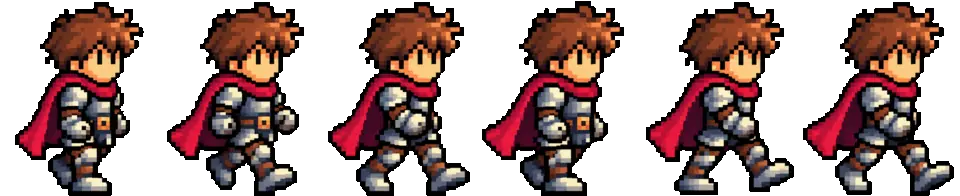
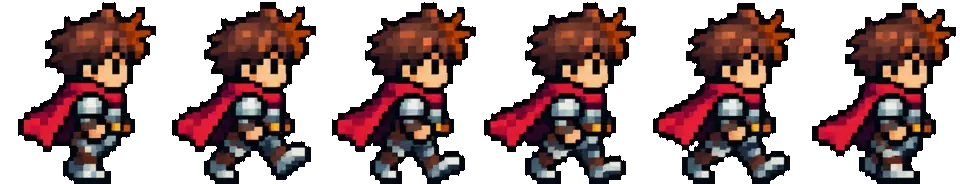
Diario: nuova mappa del mondo 1 vista dall'alto, nuovo cavaliere e camminata lungo il sentiero disegnato
Claude-Session: https://claude.ai/code/session_01Ly8M64WoiNxbZKkFq6qyb5

diff --git a/js/diario.js b/js/diario.js
@@ -112,31 +112,65 @@
         const pageWorld = Number(page.dataset.world);
         const reduceMotion = window.matchMedia("(prefers-reduced-motion: reduce)").matches;
 
-        // Dove si ferma per ogni settimana: a sinistra del falò, in % della mappa
+        // Il sentiero disegnato sulla mappa, come una linea di punti (in %)
+        const path = (page.dataset.path || "").trim().split(/\s+/).map(function (pair) {
+            const xy = pair.split(",").map(Number);
+            return { x: xy[0], y: xy[1] };
+        });
+        // Lunghezza progressiva lungo il sentiero (la x conta il doppio: la mappa è 2:1)
+        const along = [0];
+        for (let i = 1; i < path.length; i++) {
+            along.push(along[i - 1] + Math.hypot(path[i].x - path[i - 1].x, (path[i].y - path[i - 1].y) / 2));
+        }
+
+        // Punto del sentiero a una certa distanza dall'inizio
+        function pointAt(s) {
+            if (s <= 0) return path[0];
+            for (let i = 1; i < path.length; i++) {
+                if (s <= along[i]) {
+                    const t = (s - along[i - 1]) / (along[i] - along[i - 1] || 1);
+                    return { x: path[i - 1].x + (path[i].x - path[i - 1].x) * t, y: path[i - 1].y + (path[i].y - path[i - 1].y) * t };
+                }
+            }
+            return path[path.length - 1];
+        }
+
+        // Distanza lungo il sentiero del punto più vicino a una certa x
+        function distanceAtX(x) {
+            for (let i = 1; i < path.length; i++) {
+                if (x <= path[i].x) {
+                    const t = (x - path[i - 1].x) / (path[i].x - path[i - 1].x || 1);
+                    return along[i - 1] + (along[i] - along[i - 1]) * Math.max(0, Math.min(1, t));
+                }
+            }
+            return along[along.length - 1];
+        }
+
+        // Dove si ferma per ogni settimana: sul sentiero, appena prima del falò
         const spots = {};
         page.querySelectorAll(".world-stop").forEach(function (stop) {
-            spots[Number(stop.dataset.worldWeek)] = {
-                x: Number(stop.dataset.standX),
-                y: Number(stop.dataset.standY)
-            };
+            spots[Number(stop.dataset.worldWeek)] = distanceAtX(Number(stop.dataset.standX));
         });
         const weeksHere = Object.keys(spots).map(Number).sort(function (a, b) { return a - b; });
-        const START = { x: -5, y: spots[weeksHere[0]].y };
+        const START = -3;      // appena fuori dal bordo sinistro
 
-        let pos = { x: START.x, y: START.y };
+        let s = START;
         let at = 0;            // settimana a cui è fermo (0 = nessuna)
         let walk = null;       // camminata in corso
         let timer = null;
 
         function draw() {
-            el.style.left = pos.x + "%";
-            el.style.top = pos.y + "%";
+            const p = s < 0 ? { x: path[0].x + s, y: path[0].y } : pointAt(s);
+            el.style.left = p.x + "%";
+            el.style.top = p.y + "%";
+            current = p;
         }
+        let current = path[0];
 
         // Riposa al falò della settimana in corso; se il mondo è finito, all'ultimo
         function restWeek() {
-            const current = weeksHere.find(function (w) { return stage.state(w) === "current"; });
-            if (current) return current;
+            const now = weeksHere.find(function (w) { return stage.state(w) === "current"; });
+            if (now) return now;
             const done = weeksHere.filter(function (w) { return stage.state(w) === "done"; });
             return done.length ? done[done.length - 1] : weeksHere[0];
         }
@@ -144,8 +178,7 @@
         // Tiene il cavaliere al centro quando la mappa è più larga dello schermo
         function follow() {
             if (page.scrollWidth <= page.clientWidth) return;
-            const stageEl = el.parentElement;
-            const x = stageEl.clientWidth * pos.x / 100;
+            const x = el.parentElement.clientWidth * current.x / 100;
             page.scrollLeft = x - page.clientWidth / 2;
         }
 
@@ -153,27 +186,27 @@
             if (!walk) return;
             const done = walk;
             walk = null;
-            pos = { x: done.to.x, y: done.to.y };
+            s = done.to;
             draw();
             follow();
             el.classList.remove("is-walking", "is-left");
             done.resolve();
         }
 
-        // speed: % della larghezza della mappa al secondo
+        // Cammina lungo il sentiero fino alla distanza "to"; speed in % al secondo
         function moveTo(to, speed, maxMs) {
             finish();
-            const from = { x: pos.x, y: pos.y };
-            const distance = Math.abs(to.x - from.x);
-            if (reduceMotion || distance < 0.5) {
-                pos = { x: to.x, y: to.y };
+            const from = s;
+            const distance = Math.abs(to - from);
+            if (reduceMotion || distance < 0.3) {
+                s = to;
                 draw();
                 follow();
                 return Promise.resolve();
             }
             const duration = Math.min(maxMs, Math.max(250, distance / speed * 1000));
             el.classList.add("is-walking");
-            el.classList.toggle("is-left", to.x < from.x);
+            el.classList.toggle("is-left", to < from);
 
             return new Promise(function (resolve) {
                 const start = performance.now();
@@ -181,7 +214,7 @@
                 function step(now) {
                     if (!walk || walk.to !== to) return;
                     const t = Math.min(1, (now - start) / duration);
-                    pos = { x: from.x + (to.x - from.x) * t, y: from.y + (to.y - from.y) * t };
+                    s = from + (to - from) * t;
                     draw();
                     follow();
                     if (t < 1) requestAnimationFrame(step);
@@ -196,7 +229,7 @@
             clearTimeout(timer);
             finish();
             const target = restWeek();
-            pos = { x: START.x, y: START.y };
+            s = START;
             at = 0;
             draw();
             page.scrollLeft = 0;
@@ -222,7 +255,7 @@
             const target = spots[week] ? week : restWeek();
             clearTimeout(timer);
             finish();
-            pos = { x: spots[target].x, y: spots[target].y };
+            s = spots[target];
             at = target;
             draw();
         }

diff --git a/index.html b/index.html
@@ -169,23 +169,23 @@
             <h2 class="visually-hidden">Diario</h2>
 
             <!-- I quattro mondi, uno per mese: si vede uno alla volta, a tutto schermo -->
-            <div class="world-page" data-world="1" data-name="La foresta" data-month="Settembre">
+            <div class="world-page" data-world="1" data-name="La foresta" data-month="Settembre" data-path="0.00,50.17 1.01,50.38 2.03,50.73 3.04,51.03 4.06,50.91 5.07,50.43 6.09,49.75 7.10,49.35 8.12,49.37 9.13,49.48 10.15,49.49 11.16,49.75 12.18,50.21 13.19,50.61 14.21,50.88 15.22,51.15 16.23,51.74 17.25,52.58 18.26,53.54 19.28,55.39 20.29,57.64 21.31,59.29 22.32,60.02 23.34,60.36 24.35,60.43 25.37,60.33 26.38,59.80 27.40,58.75 28.41,57.38 29.43,55.99 30.44,54.71 31.45,53.55 32.47,52.84 33.48,52.58 34.50,52.47 35.51,52.21 36.53,52.12 37.54,52.34 38.56,52.50 39.57,52.55 40.59,52.99 41.60,53.77 42.62,54.35 43.63,54.52 44.64,54.57 45.66,55.25 46.67,56.71 47.69,58.30 48.70,59.43 49.72,59.88 50.73,59.91 51.75,59.63 52.76,59.00 53.78,58.43 54.79,58.03 55.81,57.90 56.82,57.82 57.84,57.69 58.85,57.50 59.86,56.98 60.88,56.44 61.89,56.25 62.91,56.55 63.92,57.09 64.94,57.96 65.95,58.90 66.97,59.45 67.98,59.43 69.00,58.97 70.01,58.77 71.03,58.86 72.04,58.96 73.06,58.96 74.07,59.02 75.08,59.09 76.10,59.01 77.11,58.82 78.13,58.37 79.14,57.46 80.16,56.60 81.17,56.10 82.19,55.87 83.20,55.55 84.22,55.42 85.23,55.31 86.25,55.32 87.26,55.34">
                 <div class="world-stage">
-                    <img class="world-art" src="immagini/mondo-1.webp" alt="La foresta del primo mondo: un sentiero con quattro falò tra i pini, un lago e un villaggio, verso un castello" width="1774" height="887">
+                    <img class="world-art" src="immagini/mondo-1.webp" alt="Il primo mondo visto dall'alto: un sentiero con quattro falò tra i pini, un lago con le isole, le cascate e un castello" width="1774" height="887">
                     <i class="knight-walker" aria-hidden="true"></i>
-                        <button type="button" class="world-stop" data-level-open="1" data-world-week="1" data-stand-x="6.71" data-stand-y="67.53" style="left: 10.43%; top: 59.75%">
+                        <button type="button" class="world-stop" data-level-open="1" data-world-week="1" data-stand-x="8.40" data-stand-y="50.08" style="left: 11.22%; top: 43.74%">
                             <span class="world-stop-lv">LV 01</span>
                             <span class="world-stop-state"></span>
                         </button>
-                        <button type="button" class="world-stop" data-level-open="2" data-world-week="2" data-stand-x="31.40" data-stand-y="69.22" style="left: 35.12%; top: 61.44%">
+                        <button type="button" class="world-stop" data-level-open="2" data-world-week="2" data-stand-x="32.58" data-stand-y="53.49" style="left: 35.40%; top: 45.77%">
                             <span class="world-stop-lv">LV 02</span>
                             <span class="world-stop-state"></span>
                         </button>
-                        <button type="button" class="world-stop" data-level-open="3" data-world-week="3" data-stand-x="54.45" data-stand-y="67.87" style="left: 58.17%; top: 60.09%">
+                        <button type="button" class="world-stop" data-level-open="3" data-world-week="3" data-stand-x="54.23" data-stand-y="58.93" style="left: 57.05%; top: 50.51%">
                             <span class="world-stop-lv">LV 03</span>
                             <span class="world-stop-state"></span>
                         </button>
-                        <button type="button" class="world-stop" data-level-open="4" data-world-week="4" data-stand-x="81.12" data-stand-y="66.18" style="left: 84.84%; top: 58.40%">
+                        <button type="button" class="world-stop" data-level-open="4" data-world-week="4" data-stand-x="82.02" data-stand-y="56.59" style="left: 84.84%; top: 48.82%">
                             <span class="world-stop-lv">LV 04</span>
                             <span class="world-stop-state"></span>
                         </button>

diff --git a/css/pixel.css b/css/pixel.css
@@ -2382,10 +2382,11 @@ body[data-screen="livelli"] main {
     position: absolute;
     z-index: 1;
     display: block;
-    height: 11.5%;
+    height: 8.5%;
     /* Da fermo: la posa in piedi (cavaliere-fermo.webp) */
-    aspect-ratio: 180 / 196;
-    transform: translate(-61.33%, -100%);
+    aspect-ratio: 160 / 184;
+    transform: translate(-62.5%, -100%);
+    transform-origin: 62.5% 100%;
     background: url("../immagini/cavaliere-fermo.webp") 0 0 / 100% 100% no-repeat;
     image-rendering: pixelated;
     pointer-events: none;
@@ -2394,15 +2395,13 @@ body[data-screen="livelli"] main {
 
 /* Camminando: i sei disegni della camminata */
 .knight-walker.is-walking {
-    aspect-ratio: 160 / 196;
-    transform: translate(-57.5%, -100%);
     background-image: url("../immagini/cavaliere-cammina.webp");
     background-size: 600% 100%;
     animation: knight-walk 0.6s steps(6, jump-none) infinite;
 }
 
 .knight-walker.is-walking.is-left {
-    transform: translate(-57.5%, -100%) scaleX(-1);
+    transform: translate(-62.5%, -100%) scaleX(-1);
 }
 
 @keyframes knight-walk {
